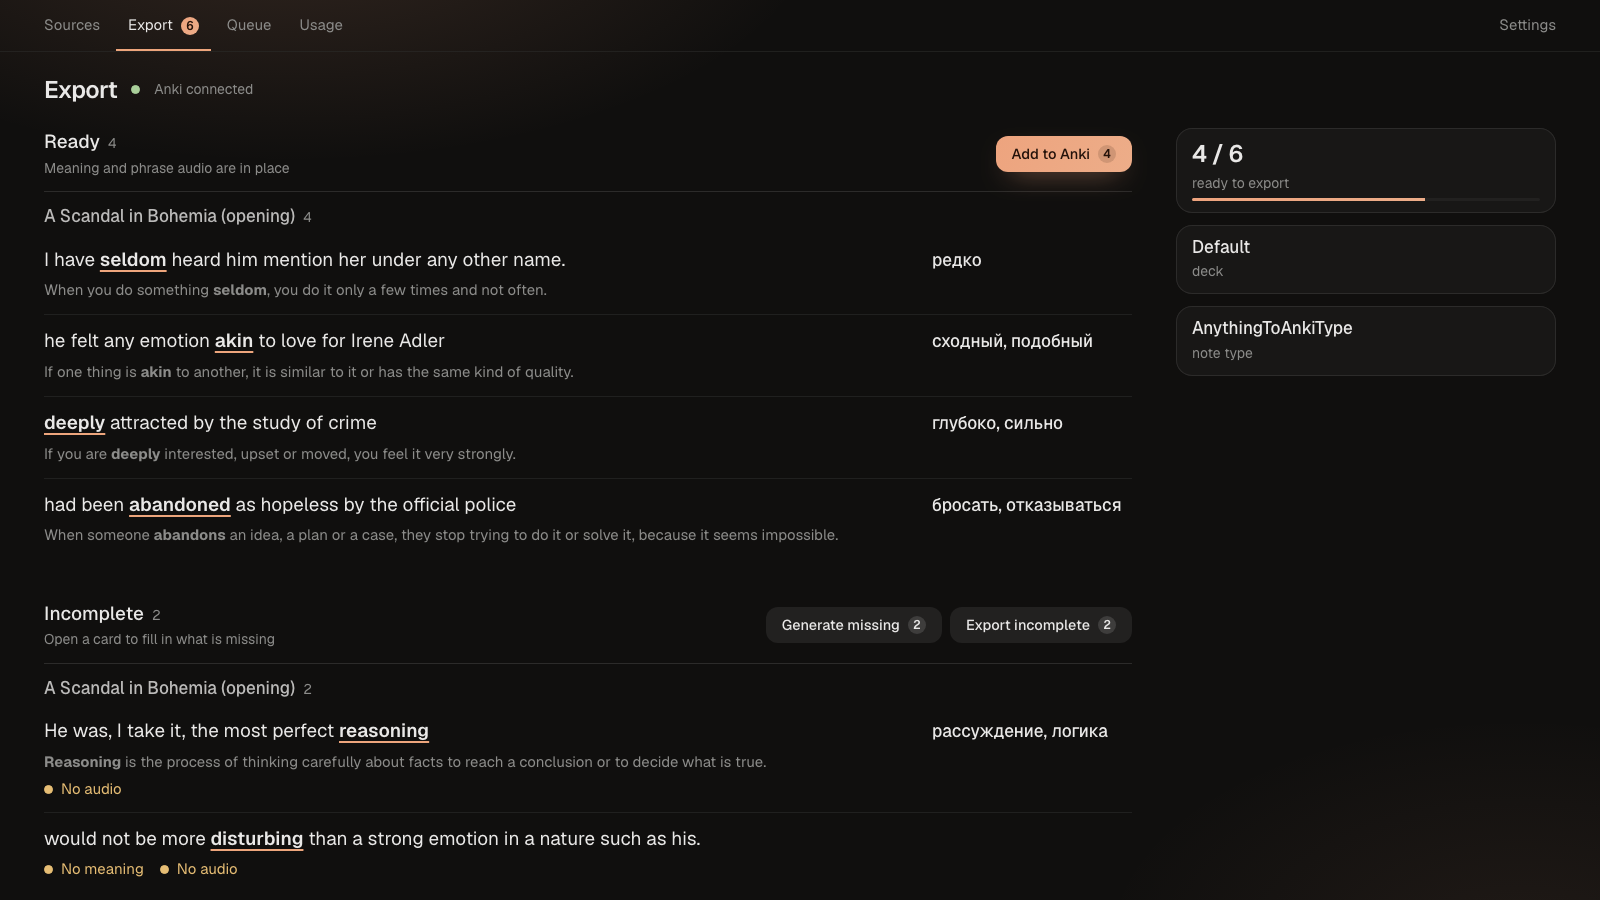
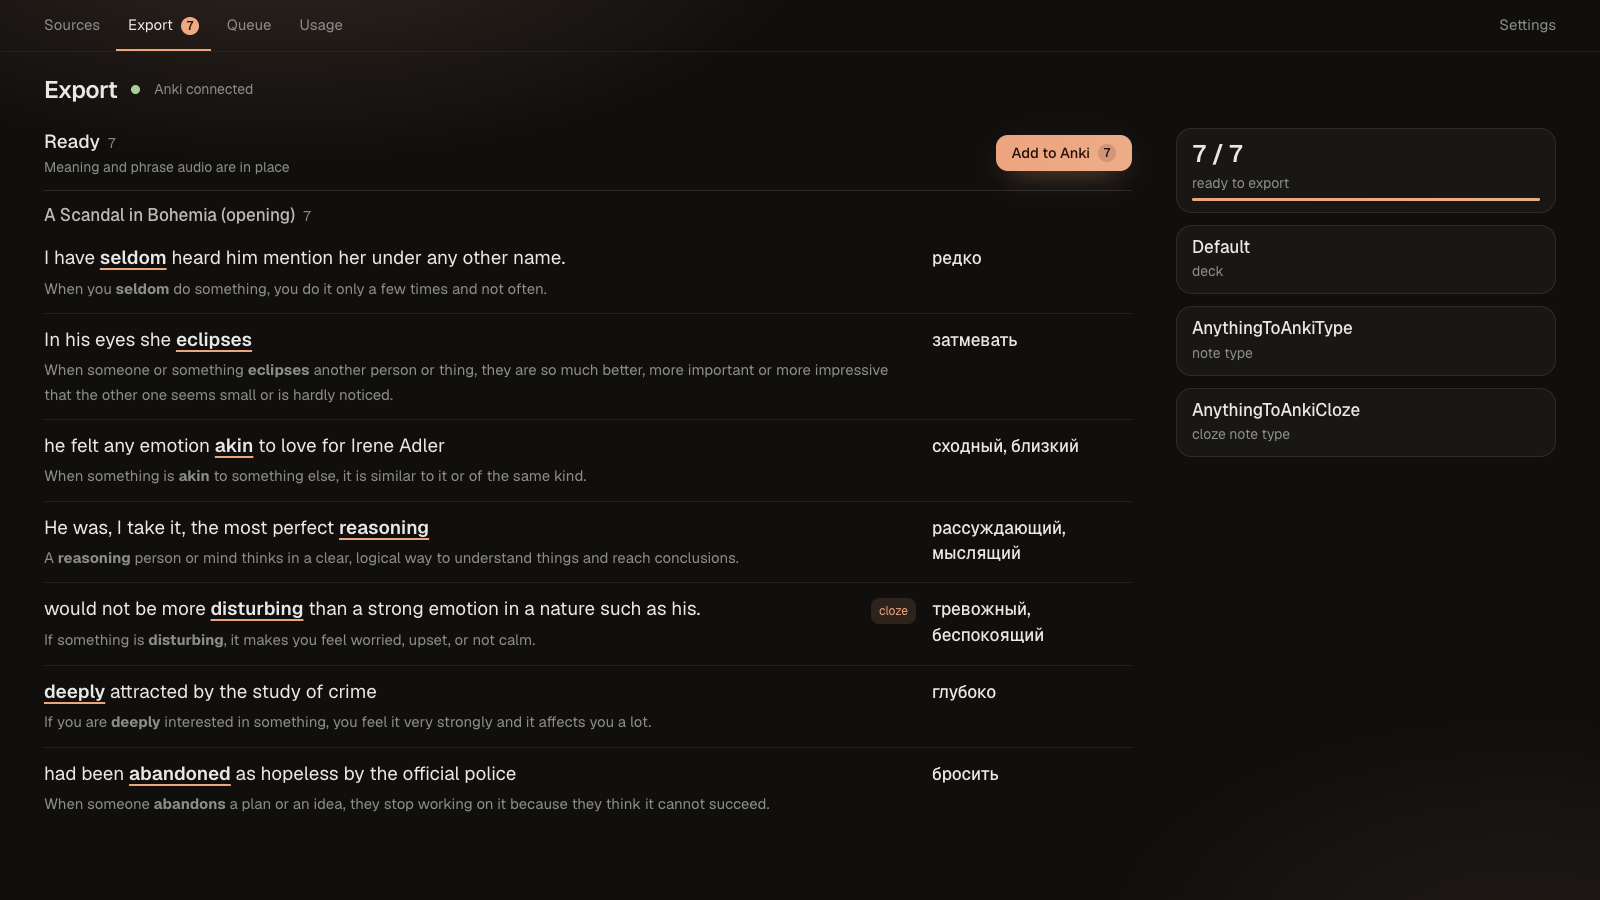
fix: keep note type names whole and show the cloze note type on export

diff --git a/frontends/web/src/screens/export/ExportScreen.test.tsx b/frontends/web/src/screens/export/ExportScreen.test.tsx
@@ -3,7 +3,7 @@ import { createRoot, type Root } from 'react-dom/client'
 import { MemoryRouter, Route, Routes } from 'react-router-dom'
 import { afterEach, beforeEach, describe, expect, it, vi } from 'vitest'
 import { api } from '@/api/client'
-import type { AnkiStatus, CardPreview, ExportSection, GlobalExport, SyncResult } from '@/api/types'
+import type { AnkiStatus, Settings, CardPreview, ExportSection, GlobalExport, SyncResult } from '@/api/types'
 import { ExportScreen } from './ExportScreen'
 
 const SCOPE_ID = 12
@@ -102,6 +102,30 @@ describe('ExportScreen scope', () => {
     expect(button?.lastElementChild?.textContent).toBe('2')
     await act(async () => { button?.click() })
     expect(fill).toHaveBeenCalledWith(SCOPE_ID)
+  })
+
+  const noteTypes = async (cards: CardPreview[]) => {
+    vi.spyOn(api, 'getSettings').mockResolvedValue({
+      anki_deck_name: 'English', anki_note_type: 'AnythingToAnkiType', anki_cloze_note_type: 'AnythingToAnkiCloze',
+    } as Settings)
+    vi.spyOn(api, 'getExportCards').mockResolvedValue({ ...EXPORT, ready: [{ ...SECTION, cards }] })
+    await open()
+    return container.textContent ?? ''
+  }
+
+  it('shows the cloze note type only when cloze cards are exported', async () => {
+    expect(await noteTypes([CARD])).not.toContain('cloze note type')
+    act(() => root.unmount())
+    root = createRoot(container)
+    const text = await noteTypes([CARD, { ...CARD, candidate_id: 6, is_cloze: true }])
+    expect(text).toContain('AnythingToAnkiType')
+    expect(text).toContain('AnythingToAnkiClozecloze note type')
+  })
+
+  it('keeps the full note type name in the tooltip', async () => {
+    await noteTypes([CARD])
+    const value = [...container.querySelectorAll('b')].find(b => b.textContent === 'AnythingToAnkiType')
+    expect(value?.title).toBe('AnythingToAnkiType')
   })
 
   it('shows the empty state when everything is in Anki', async () => {

diff --git a/frontends/web/src/screens/export/ExportScreen.tsx b/frontends/web/src/screens/export/ExportScreen.tsx
@@ -35,8 +35,9 @@ function ExportView({ scope }: { scope: SetScope }) {
 
   const { ankiStatus, groups, counts, totalCards, exportedCount, settings, result } = exporter
   // Колонка превью нужна всем строкам, если видео есть хоть у одной: иначе колонки разъезжаются.
-  const withMedia = [...groups.ready, ...groups.incomplete]
-    .some(section => section.cards.some(card => card.screenshot_url || card.audio_url))
+  const cards = [...groups.ready, ...groups.incomplete].flatMap(section => section.cards)
+  const withMedia = cards.some(card => card.screenshot_url || card.audio_url)
+  const withCloze = cards.some(card => card.is_cloze)
   const ankiLabel = ankiStatus === null ? 'Checking…' : ankiStatus.available ? 'Anki connected' : 'Anki unavailable'
 
   const header = (
@@ -53,6 +54,7 @@ function ExportView({ scope }: { scope: SetScope }) {
         <Stat value={`${counts.ready} / ${totalCards}`} label="ready to export" progress={totalCards > 0 ? counts.ready / totalCards : 0} wide />
         <Stat small value={settings?.anki_deck_name ?? '—'} label="deck" wide />
         <Stat small value={settings?.anki_note_type ?? '—'} label="note type" wide />
+        {withCloze && <Stat small value={settings?.anki_cloze_note_type ?? '—'} label="cloze note type" wide />}
         {exportedCount > 0 && <Stat small value={exportedCount} label="already exported" wide />}
       </StatGrid>
       {result && (

diff --git a/frontends/web/src/ui/Stat.tsx b/frontends/web/src/ui/Stat.tsx
@@ -8,7 +8,7 @@ interface StatProps {
   /** Доля 0..1 — шкала под подписью. */
   progress?: number
   hint?: ReactNode
-  /** Текстовое значение вместо крупного числа. */
+  /** Текстовое значение вместо крупного числа: в одну строку, длинное обрезается, целиком — в подсказке. */
   small?: boolean
   /** Плитка на всю ширину сетки. */
   wide?: boolean
@@ -21,7 +21,7 @@ export function StatGrid({ children }: { children: ReactNode }) {
 export function Stat({ value, label, progress, hint, small = false, wide = false }: StatProps) {
   return (
     <div className={wide ? `${css.stat} ${css.wide}` : css.stat}>
-      <b className={small ? `${css.value} ${css.small}` : css.value}>{value}</b>
+      <b className={small ? `${css.value} ${css.small}` : css.value} title={small && typeof value === 'string' ? value : undefined}>{value}</b>
       <span className={css.label}>{label}</span>
       {progress !== undefined && <Progress value={progress} />}
       {hint && <span className={css.hint}>{hint}</span>}

diff --git a/frontends/web/src/ui/Stat.module.css b/frontends/web/src/ui/Stat.module.css
@@ -2,6 +2,6 @@
 .stat { display: flex; flex-direction: column; gap: var(--s2); min-width: 0; padding: var(--s4) var(--s5); background: var(--card); box-shadow: inset 0 0 0 var(--bw) var(--line); border-radius: var(--r); }
 .wide { grid-column: 1 / -1; }
 .value { font-size: var(--fs-h1); font-weight: var(--fw-b); letter-spacing: var(--ls-tight); line-height: var(--lh-tight); font-variant-numeric: tabular-nums; overflow-wrap: anywhere; }
-.small { font-size: var(--fs-b); font-weight: var(--fw-m); letter-spacing: normal; }
+.small { font-size: var(--fs-b); font-weight: var(--fw-m); letter-spacing: normal; overflow-wrap: normal; white-space: nowrap; overflow: hidden; text-overflow: ellipsis; }
 .label { font-size: var(--fs-s); color: var(--tx3); }
 .hint { font-size: var(--fs-s); color: var(--tx3); overflow-wrap: anywhere; }

diff --git a/docs/guide/anki-export.md b/docs/guide/anki-export.md
@@ -15,6 +15,8 @@ The result shows how many cards were **added**, how many were **already in Anki*
 
 The badge on **Export** in the top bar shows how many words are waiting to be exported.
 
+The panel on the right shows where the cards go: the **deck** and the **note type**. When the export has cloze cards, it also shows the **cloze note type**. A name too long for the panel ends with "…"; hover over it to see it in full.
+
 ### Ready and Incomplete
 
 The cards are split into two groups:
